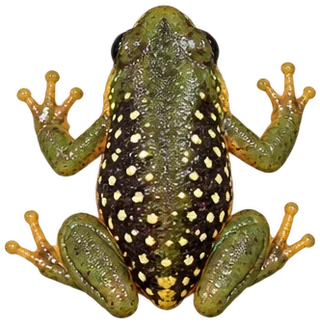
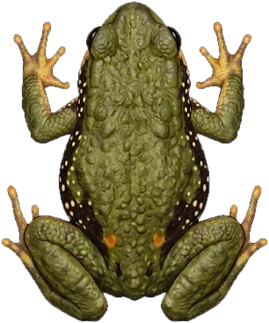
Actualiza vista superior (lomo) de ambos morfos
Claude-Session: https://claude.ai/code/session_01SM3NeWDVd2r6HuoFWMLGR7

diff --git a/src/components/Species.jsx b/src/components/Species.jsx
@@ -3,8 +3,8 @@ import { useApp } from "../AppContext.jsx";
 /* Lámina: las dos coloraciones conocidas. Arriba, de perfil y al mismo tamaño (public/img/morfo-verde.webp y
    morfo-amarillo.webp, 736 × 486); debajo, tres vistas pequeñas (morfo-<id>-<vista>.webp) */
 const MORFOS = [
-  { id: "verde", es: "Verde y negro", en: "Green and black", arriba: [320, 323], abajo: [320, 321], frente: [340, 219] },
-  { id: "amarillo", es: "Amarillo y marrón", en: "Yellow and brown", arriba: [298, 323], abajo: [309, 316], frente: [340, 209] },
+  { id: "verde", es: "Verde y negro", en: "Green and black", arriba: [269, 323], abajo: [320, 321], frente: [340, 219] },
+  { id: "amarillo", es: "Amarillo y marrón", en: "Yellow and brown", arriba: [245, 323], abajo: [309, 316], frente: [340, 209] },
 ];
 const VISTAS = [
   { id: "arriba", es: "Lomo", en: "Back" },
